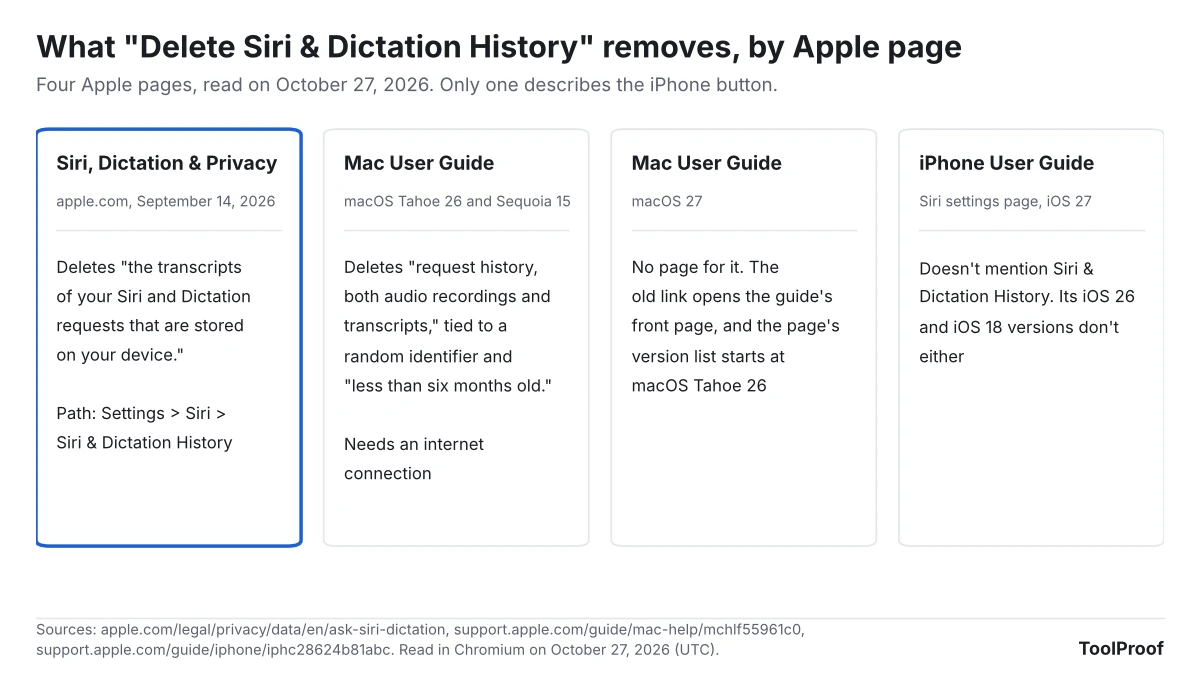
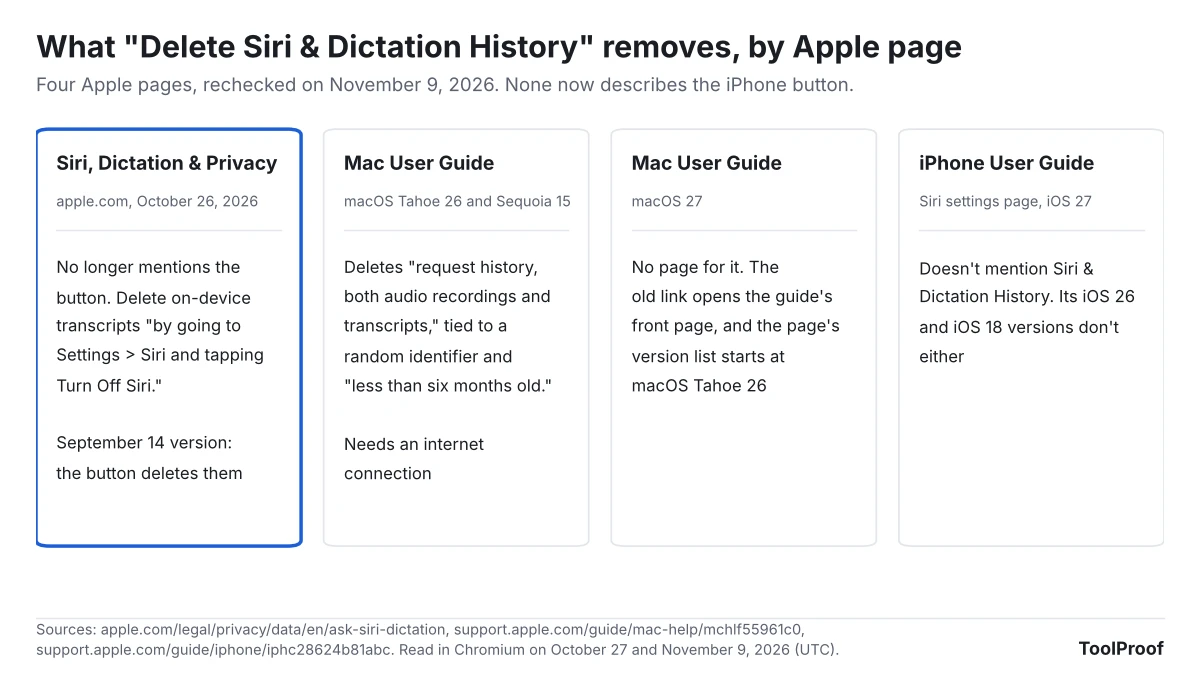
Content: Siri 기록 글에 Apple 개인정보 페이지 10-26 개정 반영 (기기 전사본 지우기 경로·기본 저장·옵트인 범위·Siri 검색 저장)
Claude-Session: https://claude.ai/code/session_01Wfruana3cvWGtjSYzwj65W

diff --git a/apps/ad-blog/experiment/tests/siri-history-on-iphone/charts.py b/apps/ad-blog/experiment/tests/siri-history-on-iphone/charts.py
@@ -54,9 +54,9 @@ def guide_screenshot():
 
 # (어디, 무엇이 있나, 볼 수 있나, 지우는 법)
 PLACES = [
-    ('Siri app\n(Siri AI only)', 'Your Siri AI conversations,\nsynced through iCloud', 'Yes, in the\nSiri app', 'Touch and hold > Delete, or\nSettings > Siri > Keep Conversations'),
-    ('Your iPhone\n(any Siri)', 'Transcripts of Siri and\nDictation requests', 'No list\nto browse', 'Settings > Siri > Siri & Dictation\nHistory, per Apple\'s privacy page'),
-    ('Apple\'s servers', 'Transcripts under a random ID,\nup to 2 years. Audio only if\nyou opted in', 'No', 'Apple\'s iPhone pages don\'t say how.\nTo stop audio storage, turn off\nImprove Siri & Dictation'),
+    ('Siri app\n(Siri AI only)', 'Your Siri AI conversations,\nsynced through iCloud with\nend-to-end encryption', 'Yes, in the\nSiri app', 'Touch and hold > Delete, or\nSettings > Siri > Keep Conversations'),
+    ('Your iPhone\n(any Siri)', 'Transcripts of Siri and\nDictation requests', 'No list\nto browse', 'Settings > Siri > Turn Off Siri,\nper Apple\'s privacy page'),
+    ('Apple\'s servers', 'Request data and search queries\nunder a random ID, up to 2 years.\nAudio and transcripts only if\nyou opted in', 'No', 'Apple\'s iPhone pages don\'t say how.\nTo limit it, turn off Improve Siri\nand Help Apple Improve Search'),
     ('ChatGPT\n(if signed in)', 'Requests Siri passed\nto ChatGPT', 'Yes, in your\nChatGPT history', 'Delete in ChatGPT. Not saved if\nyou aren\'t signed in'),
 ]
 
@@ -79,14 +79,14 @@ def places_table():
         ax.text(0.662, y, delete, fontsize=11.2, va='center', linespacing=1.35, zorder=2)
         if i:
             ax.plot([0, 1], [y + rh / 2, y + rh / 2], color=cs.BORDER, lw=1, zorder=0)
-    cs.footer(fig, 'Sources: Apple iPhone User Guide for iOS 27 (Siri app, ChatGPT), apple.com/legal/privacy Siri pages (September 14, 2026).')
+    cs.footer(fig, 'Sources: Apple iPhone User Guide for iOS 27 (Siri app, ChatGPT), apple.com/legal/privacy Siri pages (October 26, 2026 versions).')
     cs.save(fig, f'{OUT}/siri-history-where-it-is-kept.webp')
 
 
 # (문서, 날짜·판, 말하는 것, 강조 여부)
 DOCS = [
-    ('Siri, Dictation & Privacy', 'apple.com, September 14, 2026',
-     'Deletes "the transcripts\nof your Siri and Dictation\nrequests that are stored\non your device."\n\nPath: Settings > Siri >\nSiri & Dictation History', True),
+    ('Siri, Dictation & Privacy', 'apple.com, October 26, 2026',
+     'No longer mentions the\nbutton. Delete on-device\ntranscripts "by going to\nSettings > Siri and tapping\nTurn Off Siri."\n\nSeptember 14 version:\nthe button deletes them', True),
     ('Mac User Guide', 'macOS Tahoe 26 and Sequoia 15',
      'Deletes "request history,\nboth audio recordings and\ntranscripts," tied to a\nrandom identifier and\n"less than six months old."\n\nNeeds an internet\nconnection', False),
     ('Mac User Guide', 'macOS 27',
@@ -98,7 +98,7 @@ DOCS = [
 
 def docs_card():
     fig, ax = canvas('What "Delete Siri & Dictation History" removes, by Apple page',
-                     'Four Apple pages, read on October 27, 2026. Only one describes the iPhone button.')
+                     'Four Apple pages, rechecked on November 9, 2026. None now describes the iPhone button.')
     w = 0.235
     gap = (1 - 4 * w) / 3
     for i, (name, ver, says, accent) in enumerate(DOCS):
@@ -108,7 +108,7 @@ def docs_card():
         ax.text(x + 0.018, 0.82, ver, fontsize=10.5, color=cs.MUTED, va='center', zorder=2)
         ax.plot([x + 0.018, x + w - 0.018], [0.76, 0.76], color=cs.BORDER, lw=1, zorder=2)
         ax.text(x + 0.018, 0.71, says, fontsize=12, va='top', linespacing=1.45, zorder=2)
-    cs.footer(fig, 'Sources: apple.com/legal/privacy/data/en/ask-siri-dictation, support.apple.com/guide/mac-help/mchlf55961c0,', 'support.apple.com/guide/iphone/iphc28624b81abc. Read in Chromium on October 27, 2026 (UTC).')
+    cs.footer(fig, 'Sources: apple.com/legal/privacy/data/en/ask-siri-dictation, support.apple.com/guide/mac-help/mchlf55961c0,', 'support.apple.com/guide/iphone/iphc28624b81abc. Read in Chromium on October 27 and November 9, 2026 (UTC).')
     cs.save(fig, f'{OUT}/delete-siri-dictation-history-apple-pages.webp')
 
 
@@ -117,7 +117,7 @@ KEPT = [
     ('Apple Intelligence Report', 7 / 30, 'Last 15 minutes or 7 days of requests\nsent to Apple\'s servers', True),
     ('Siri app, Keep Conversations', 12, '30 days or 1 year, then older chats\nare permanently deleted (or another option)', True),
     ('Delete window on Mac', 6, 'Request history under 6 months old\n(macOS 26 guide)', False),
-    ('Apple\'s request history', 24, 'Up to 2 years under a random ID,\nreviewed samples can stay longer', False),
+    ('Apple\'s request history', 24, 'Up to 2 years under a random ID.\nReviewed opt-in samples can stay longer', False),
 ]
 
 
@@ -141,7 +141,7 @@ def kept_chart():
     cs.header(fig, 'How long Siri history can be kept',
               'Blue: limits you can choose on iPhone. Gray: Apple\'s side, as its pages describe it.')
     cs.footer(fig, 'Sources: Apple iPhone User Guide for iOS 27 (Siri app, Apple Intelligence and privacy), Mac User Guide for macOS 26,',
-              'apple.com/legal/privacy Siri, Dictation & Privacy (September 14, 2026). Private Cloud Compute keeps no request data, per Apple.')
+              'apple.com/legal/privacy Siri pages (October 26, 2026 versions). Private Cloud Compute keeps no request data, per Apple.')
     cs.save(fig, f'{OUT}/siri-history-how-long-kept.webp')
 
 

diff --git a/apps/ad-blog/experiment/tests/siri-history-on-iphone/factcheck.md b/apps/ad-blog/experiment/tests/siri-history-on-iphone/factcheck.md
@@ -58,3 +58,24 @@
 - 대화를 지우면 다른 기기에서도 지워지는지(Tom's Guide 등): Apple은 기록이 동기화된다고만 씀 → "Apple's guide says the history syncs" 수준으로만 씀
 - iOS 27에서 Siri & Dictation History 메뉴가 실제로 있는지: iPhone이 없어 확인 불가, Apple 문서끼리 다름 → 문서 차이를 그대로 쓰고 없을 때의 대안(Siri·받아쓰기 끄기)을 Apple 문장으로 안내
 - iOS 13.2 이전의 "Voice Searches" 보기(블로그): 지금 iOS와 무관
+
+## 재확인 (2026-11-10 KST 개선 세션 92, 2026-11-09 UTC)
+
+`source_diff.cjs --slug siri-history-on-iphone --save`로 출처 21개를 Chromium으로 다시 열어 비교 (2026-11-09 19:2x UTC): 개인정보 페이지 3쪽은 세션 90이 저장한 11-07판(`source-apple-privacy-*-2026-11-08.txt`, 가져온 시각 2026-11-07T22:27Z)과 같음, 바뀐 것은 릴리스 노트 149076의 iOS 27.2.1 항목("bug fixes and security updates", 발행 11-09)뿐 → `source-apple-149076-ios27-updates-2026-11-10.txt`. 나머지 17쪽 그대로. 개인정보 페이지 날짜는 `2026-10-26`이지만 10-27 16:00 UTC 사본은 아직 `2026-09-14`판 → 실제 게시는 10-27 16:00 ~ 11-07 22:27 UTC 사이 (본문에는 "dated October 26"만 씀)
+
+| 바뀐 주장 (09-14판 → 10-26판) | 출처 | 글에 반영한 곳 |
+| --- | --- | --- |
+| 기기 전사본 지우기: "Settings > Siri > Siri & Dictation History and tapping Delete Siri & Dictation History" → "**Settings > Siri and tapping Turn Off Siri**" (Improve Siri 페이지도 같게 바뀜). Siri·받아쓰기를 둘 다 끄면 지워진다는 문장은 그대로 | ask-siri-dictation, improve-siri-dictation | 둘째 문단, 요약 표, 'How to delete Siri & Dictation History' 절 전체, 문서 비교 그림·alt, 'Which setting' |
+| Siri 끄기 경로: "Settings > Siri > Talk to Siri and tap Off" → "Settings > Siri > Turn Off Siri, then tap Turn Off Siri" (iOS 27 설명서와 같아짐) → 옛 메뉴 이름(Talk to Siri) 문단 삭제 | ask-siri-dictation | 'How to delete Siri & Dictation History' |
+| 첫 요약: "Apple stores transcripts of your interactions with Siri and may review a subset" 삭제 → "Apple stores usage data, like whether a message was sent. For Search requests … the query will also be stored by Apple and used to improve Search, Siri, and related features" | ask-siri-dictation | 둘째 문단, 'The copy of your Siri history Apple keeps' |
+| 기본 요청 기록: "Your request history, which includes transcripts and any related request data" → "data related to your request (category, completed, device specifications/configuration, performance, approximate location) … part of your Siri and Dictation request history", 2년 보관·임의 식별자 그대로. 검토 부분집합 2년 초과 보관 문장은 기본 설명에서 빠지고 옵트인 페이지에만 | ask-siri-dictation | 같은 절, 보관 기간 그림 라벨·alt('Reviewed opt-in samples') |
+| 옵트인 이름 추가: "Improve Siri and Dictation **or Improve Siri & Apple Intelligence**" (Settings > Privacy & Security > Analytics & Improvements) | ask-siri-dictation, siri-suggestions-search | 'How to stop Apple from keeping your Siri recordings', 'Which setting', Siri 검색 절 |
+| 옵트인 수집 범위: "store and review a sample of audio interactions" → "store and review what you say to Siri, Dictation, and Translate, including audio and text" / "may store all of your interactions … audio data and transcripts of what you say and type to Siri, the response Siri provides, and the links you open from world knowledge searches" + 본 페이지 "as well as your conversation history with Siri if you use the Siri app" | improve-siri-dictation, ask-siri-dictation | 'How to stop Apple …' 절 |
+| 오디오: "Your audio data is not stored by Apple unless you opt in to Improve Siri and Dictation or Improve Siri & Apple Intelligence" (뜻은 그대로) | ask-siri-dictation | 같은 절 (인용 그대로) |
+| Siri 앱 대화 동기화: "If you enable Siri AI and use iCloud, the history of your interactions with Siri that are saved within the Siri app will also sync … using end-to-end encryption, which cannot be read by Apple" (새 문장) | ask-siri-dictation | 'How to see Siri history in the Siri app' 마지막 문장, FAQ 'Can someone else see', 기록 위치 그림·alt |
+| Siri 검색 저장: 본 페이지 첫 요약과 'Siri and Dictation' 절에 Search 요청 저장·Help Apple Improve Search 끄기 추가. 검색 페이지의 "in a way that is not linked to you" 문장 그대로, Siri 옵트인 이름 추가 | ask-siri-dictation, siri-suggestions-search | 요약 표 새 행, Siri 검색 절, 'Which setting' 새 항목, 기록 위치 그림 |
+| "A history of your Siri and Dictation interactions is stored on your device and may be used to personalize your Siri experience" 그대로 (날짜만 10-26) | ask-siri-dictation | 'Can you see …' 절 날짜 |
+
+- 쓰지 않은 것: 새 페이지의 Siri in Camera(Visual Intelligence)·Excluded Apps·Screen Time 경로 변경(Other Features > Siri) — 기록 보기·지우기와 무관. iOS 27.2.1 — 버그·보안 수정이라 글 내용과 무관
+- 제목·설명 그대로 (설명의 "21 Apple pages"·"two-year server copy"는 새 판에서도 맞음), `updatedAt` 2026-11-09T20:00Z. 그림 3장 다시 그림(`charts.py`), 화면 캡처 그림은 그대로
+- 검증 유형 그대로 **조사형** (iPhone 없음)
